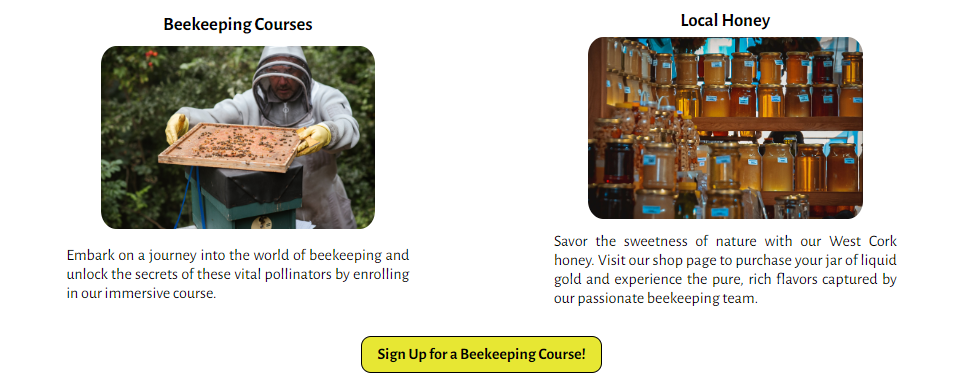
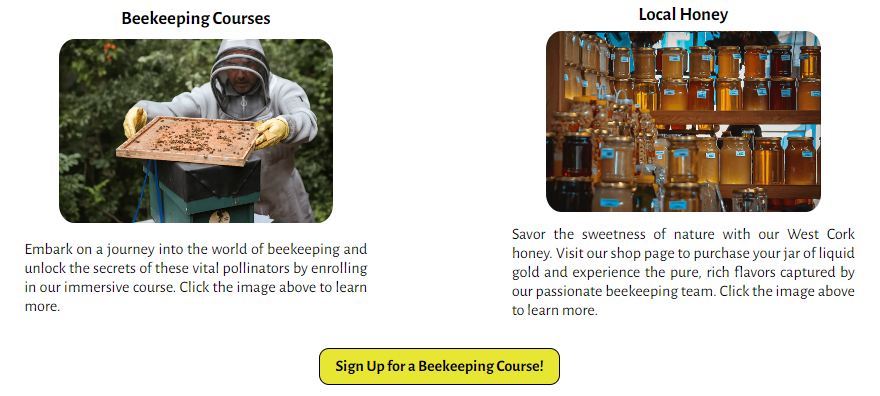
Fix: Correct typos in README.

diff --git a/README.md b/README.md
@@ -73,17 +73,17 @@ An imported Google Font, Alegreya Sans, was used for this website. Font weights 
 ![Alegreya Sands font 700 weight](assets/images/readme/alegreya-sans-700.PNG)
 
 ### Imagery
-Imagery was chosen that showed beekeepers working with the types of equipment that users would expect to see if they enrol in a beekeeping course. It was difficult to find free-to-use images that showed environment reflecting the local climate of West Cork, so this was rated as a lower priority characteristic compared to finding images that showed people enjoying themselves and that were different enough from each other to not have to repeat any across the site.
+Imagery was chosen that showed beekeepers working with the types of equipment that users would expect to see if they enrol in a beekeeping course. It was difficult to find free-to-use images that showed environments reflecting the local climate of West Cork, so this was rated as a lower priority characteristic compared to finding images that showed people enjoying themselves and that were different enough from each other to not have to repeat any across the site.
 
 ### Wireframes
-Some basic wireframes were created for desktop and mobile for the the homepage. This gave a basic starting point from which the greater website then took shape. The original ideas were adapted and evolved as coding progressed thoughtout the project timeline. 
+Some basic wireframes were created for desktop and mobile for the homepage. This gave a basic starting point from which the greater website then took shape. The original ideas were adapted and evolved as coding progressed throughout the project timeline. 
 
 ![Balsamiq Wireframe for Desktop](assets/images/readme/desktop-wireframe-1.PNG)
 ![Balsamiq Wireframe for Desktop](assets/images/readme/desktop-wireframe-2.PNG)
 ![Balsamiq Wireframe for Mobile](assets/images/readme/mobile-wireframe.PNG)
 
 ### Features
-The website is comprised of six pages. Three are accessible from the main navigation bar: the Home page, Courses page, and Shop Page. The fourth is the Form page, accessible via the call to action button at the bottom of each of the above three pages, and also via links in the list of available courses. The Fifth page is the Thank You page which the user sees once they complete the form itself. The sixth and final page is a 404 page.
+The website is comprised of six pages. Three are accessible from the main navigation bar: the Home page, Courses page, and Shop Page. The fourth is the Form page, accessible via call-to-action buttons at the bottom of each of the above three pages, and also via links in the list of available courses. The Fifth page is the Thank You page which the user sees once they complete the form itself. The sixth and final page is a 404 page.
 
 #### All pages on the website have:
 - A favicon of a honey bee.
@@ -103,31 +103,31 @@ The website is comprised of six pages. Three are accessible from the main naviga
 
 ![About Us screenshot](assets/images/readme/section-about-us.PNG)
 
-- A section briefly describes the role honey bees play in the environment and the challenges currently faced by them. This section ends with a call-to-action of sorts and places at the front of the user's mind the idea that becoming a beekeeper is a noble and worthwhile pursuit. A closeup image of a bee collecting nectar from a flower is nestled between the two paragraphs of this section. Its bright colours and focus on the bee itself should evoke thoughts about the beauty and importance of the honey bee in nature while also making the user think about its fragility as a small creature worthy of our care.
+- A second section briefly describes the role honey bees play in the environment and the challenges currently faced by them. This section ends with a call-to-action of sorts and places at the front of the user's mind the idea that becoming a beekeeper is a noble and worthwhile pursuit. A closeup image of a bee collecting nectar from a flower is nestled between the two paragraphs of this section. Its bright colours and focus on the bee itself should evoke thoughts about the beauty and importance of the honey bee in nature while also making the user think about its fragility as a small creature worthy of our care.
 
 ![About Bees screenshot](assets/images/readme/section-about-bees.PNG)
 
-- A third and final section consists of two sets of short descriptive sentences and associated images and headings. These two sections invite the user to either navigate to the Courses page to learn more about the beekeeping courses, or to visit the Shop page to purchase honey. The images are the links, and when viewed on mobiles and tablets, the final sentence says "*Tap the image to learn more*", while on desktops it says "*Click the image the learn more*". This was achieved with the use of spans.
-- At the bottom of this page and the two other main pages, a call-to-action link takes the user directly to the Form page to register for a beekeeping course. This link allows a returning user to navigate directly to the registration form without having to click other links to get there. The yellow colour was chosen to draw attention to the user that it is something distinct from other content on this page.
+- A third and final section consists of two sets of short descriptive sentences and associated images and headings. These two sections invite the user to either navigate to the Courses page to learn more about the beekeeping courses, or to visit the Shop page to purchase honey. The images are the links, and when viewed on mobiles and tablets, the final sentence says "*Tap the image to learn more*", while on desktops it says "*Click the image to learn more*". This was achieved with the use of spans.
+- At the bottom of this page and the two other main pages, a call-to-action link takes the user directly to the Form page to register for a beekeeping course. This link allows a returning user to navigate directly to the registration form without having to click other links to get there. The yellow colour was chosen to draw attention to the user and signify that it is something distinct from other content on this page.
 
 ![Short Descriptions screenshot](assets/images/readme/section-short-descriptions-call-to-action.PNG)
 
 #### The Courses page
-- The first section lists the two different levels of courses offered. Beginner courses are listed first with information on the duration and times the courses start. An overview of the structure of the courses follows with distinct boxes listing upcoming courses. The most recent sold out courses at each level are still shown on this page to convey to the user that there is already interest and that they should not delay in booking their place. The Intermediate course information is presented next with the same structure as described above. These sections will be updated as time goes on to keep user up to date with availibility.
+- The first section lists the two different levels of courses offered. Beginner courses are listed first with information on the duration and times the courses start. An overview of the structure of the courses follows with distinct boxes listing upcoming courses. The most recent sold out courses at each level are still shown on this page to convey to the user that there is already interest and that they should not delay in booking their place. The Intermediate course information is presented next with the same structure as described above. These sections will be updated as time goes on to keep users up to date with availibility.
 
 ![Upcoming Courses screenshot](assets/images/readme/section-courses.PNG)
 
-- A second section aims to convince the undecided user that they should register their interest in an upcoming course. Four reasons to become a beekeeper are listed with accompanying imagery chosen to invoke thoughts of fun, relaxation, peacefulness, and enjoyment.
+- A second section aims to convince the undecided user that they should register their interest in an upcoming course. Four reasons to become a beekeeper are listed with accompanying imagery chosen to evoke thoughts of fun, relaxation, peacefulness, and enjoyment.
 - A final paragraph reminds the user that becoming a beekeeper requires time and effort but reassures them that it is a worthwhile endeavour.
 
 ![Why Become a Beekeeper screenshot](assets/images/readme/section-why.PNG)
 
 #### The Shop page
-- An introductory paragraph informs the user of the payment process for products on this page as well as delivery terms and discounts for course graduates. A contact number and email are listed distinct from each other below the paragraph to offer the returning user quick access should they desire to contact the owners.
+- An introductory paragraph informs the user of the payment process for products on this page as well as delivery terms and discounts for course graduates. A contact number and email are listed, distinct from each other, below the paragraph to offer the returning user quick access should they desire to contact the owners.
 
 ![Shop screenshot](assets/images/readme/section-shop.PNG)
 
-- Boxes show the available products and short descriptions with accompanying imagery. These boxes will be displayed in single or multiple columns based on the screen width of the user.
+- Boxes show the available products with short descriptions and an accompanying image. These boxes will be displayed in single or multiple columns based on the screen width of the user.
 
 ![Products screenshot](assets/images/readme/section-products.PNG)
 
@@ -151,6 +151,7 @@ The website is comprised of six pages. Three are accessible from the main naviga
 
 #### Features To Be Implemented
 - Add mouse hover effect on laptop and dekstop screens: CSS styling will darken the two images at the bottom of index.html and display white text above the darkened area saying "*Learn more about courses*" and "*Browse our shop*" respectively for both images.
+- Update the form to allow more than one person to be registered in the same submission.
 - Upgrade the Courses page to allow direct booking of and payment for available courses.
 - Upgrade the Shop page to allow direct ordering and payment via the website.
 
@@ -159,7 +160,7 @@ When creating this website, I kept accessibility in mind by:
 - Using semantic html elements throughout the website.
 - Using colours with good contrast to the background.
 - Including clearly descriptive alt attributes for all images on the site.
-- Using aria labels to describe the actions that would be taken when interacting with links that contain no text. These can be found in the two image links at the bottom of index.html and in the footer icons link on every page.
+- Using aria labels to describe the actions that would be taken when interacting with links that contain no text. These can be found in the two image links at the bottom of index.html, in the phone number and email address links in courses.html, and in the footer icons links on every page.
 
 ## Technologies Used
 ### Languages
@@ -234,7 +235,7 @@ To deploy this project locally on your own device, follow the below steps:
 | To be able to easily locate information previously found. | Each page of the website has its content clearly separated into sections with headings. | |
 | To find up to date information on beekeeping courses. | The course page lists the upcoming courses clearly and is updated as the courses become booked out. | [Courses Image](assets/images/readme/section-courses.PNG) |
 | To find out where the website owners are based. | The footer contains a map icon link to show the location of the beekeeping group on Google Maps. | |
-| To be able to purchase beekeeping equipment I need. | The Shop page shows relevant products for the prospective beekeper and large images draw the attention of the user to their item of interest. | [Products Image](assets/images/readme/section-products.PNG) |
+| To be able to purchase beekeeping equipment I need. | The Shop page shows relevant products for the prospective beekeeper and large images draw the attention of the user to their item of interest. | [Products Image](assets/images/readme/section-products.PNG) |
 | **Frequent Visitors** | | |
 | To be able to purchase honey when I need to. | The Shop link is immediately available to the user in the nav bar. At the bottom of the home page there is an image of honey jars on shelves which when clicked brings the user to the Shop page. The first product listed is the honey. | [Honey Link Image](assets/images/readme/invite-honey.PNG) |
 
@@ -368,7 +369,7 @@ Thank You page:
 ![Lighthouse Test - Desktop 404.hmtl](assets/images/readme/testing/lighthouse-404-desktop.PNG)
 
 #### Mobile Tests
-Mobile test were all satisfactory in the Accessibilty, Best Practices, and SEO categories. The Performace scores for mobile were lower than desktop, ranging from 77 to 93. Lighthouse suggested improving this score by sizing images more appropriately.  I resized images on the index and courses pages to a maximum of 360px wide and added media queries to use these smaller images on mobile screens. The Lighthouse Performance score for index.html only improved by 3 points, and the score for courses.html actually dropped by 6 points. It was deemed that improvements to achieve scores of 90 and higher were outside the scope of this project at this time.
+Mobile tests were all satisfactory in the Accessibilty, Best Practices, and SEO categories. The Performace scores for mobile were lower than desktop, ranging from 77 to 93. Lighthouse suggested improving this score by sizing images more appropriately.  I resized images on the index and courses pages to a maximum of 360px wide and added media queries to use these smaller images on mobile screens. The Lighthouse Performance score for index.html only improved by 3 points, and the score for courses.html actually dropped by 6 points. It was deemed that improvements to achieve scores of 90 and higher were outside the scope of the project at this time.
 
 Index page:
 
@@ -481,7 +482,7 @@ The courses page had alerts for three redundant links. These are the links to th
 |2|The first element in the header (the div containing the navbar) has a value of 5px for margin-top. This seemed to result in pushing the entire header down leaving an empty white space equal to 5px in height. | ![Navbar margin bug](assets/images/readme/bugs/bug002-nav-margin.PNG) | Adding the property `overflow:hidden` to the div resolved the problem. Solution found on [Stack Overflow](https://stackoverflow.com/questions/2680478/margin-top-push-outer-div-down) |
 | 3 | When tilting the mobile screen or using larger width displays, the H1 element was finding itself positioned outside the limits of the header. | ![Navbar H1 position bug](assets/images/readme/bugs/bug003-h1-overflow.PNG) | I set the parent div to `display: flex` to ensure it stayed positioned inside the header and also utilised `flex-grow: 2` to visually centre the H1 in the new flex layout. This also seemed to solve Bug #2 when removing the `overflow:hidden` property added above. |
 | 4 | The four divs in the Why Become a Beekeeper section arrange themselves in a 2x2 grid for screen widths of 768px and greater; however, on some occasions only the fourth div wrapped onto the second row and was shown much larger than the other three divs. This bug was encountered on the Edge and Firefox browsers when viewed on a 26" monitor. | ![Navbar padding bug](assets/images/readme/bugs/bug004-why-divs.PNG) | The `flex-basis` value for the divs was changed from a fixed pixel width to a percentage of the viewport width. The bug could not be replicated in testing after making this change. |
-| 5 | When using Mozilla Firefox, the browser forced the first image on the homepage to shrink to ~ 0.25 times its intended size on screen sizes of 768px wide and greater. | [Mozilla Firefox Image](assets/images/readme/bugs/bug005-moz-image.PNG) [Mozilla Inspect Element Image](assets/images/readme/bugs/bug005-moz-inspect.PNG) | The existing CSS attributes of `width: 50%` and `width: 33%` for the images on tablet and desktop screen sizes respectively were changed to `min-width: 50%` and `min-width: 33%`. | 
+| 5 | When using Mozilla Firefox, the browser forced the first image on the homepage to shrink to ~ 0.25 times its intended size on screen sizes of 768px wide and greater. | [1. Mozilla Firefox Image](assets/images/readme/bugs/bug005-moz-image.PNG) [2. Mozilla Inspect Element Image](assets/images/readme/bugs/bug005-moz-inspect.PNG) | The existing CSS attributes of `width: 50%` and `width: 33%` for the images on tablet and desktop screen sizes respectively were changed to `min-width: 50%` and `min-width: 33%`. I found this solution by experimenting with the Developer Tools in-browser. | 
 | 6 | On Mozilla Firefox, the four images in the Why Become a Beekeeper section did not display at the expected size on desktop widths when compared to other browsers. | ![Mozilla Image Width Inconsistency](assets/images/readme/bugs/bug006-moz-cropped.PNG) | Using the Inspect tool on Mozilla Firefox, I added the attribute of `-moz-available` and the desired image sizes were achieved. I leared that the previous width attribute of `-webkit-fill-available` only works on Chrome-based browers. |
 
 ## Credits
@@ -493,9 +494,9 @@ Code for the website footer was taken and adapted from the Code Institute Love R
 CSS code in the Why Become a Beekeeper section that makes the four divs arrange into a grid on smaller screen sizes was inspired by the Meetup Times section in the Code Institute Love Running Walkthrough Project.
 - [Code Institute - Meetup Times](https://github.com/Code-Institute-Solutions/love-running-v3/tree/main/5.3-meetup-times)
 
-Code in the Thank You page on line 11 was provided by CI Mentor Graeme Taylor during the second mentor meeting.
+Code in the Thank You page on line 13 was provided by CI Mentor Graeme Taylor during the second mentor meeting.
 
-Code used to push the footer to the bottom of the Thank You and 404 pages was found on the website 30 Second of Code.
+Code used to push the footer to the bottom of the Thank You and 404 pages was found on the website 30 Seconds of Code.
 - [30secondsofcode.org - Footer at the Bottom](https://www.30secondsofcode.org/css/s/footer-at-the-bottom/)
 
 ### Content
